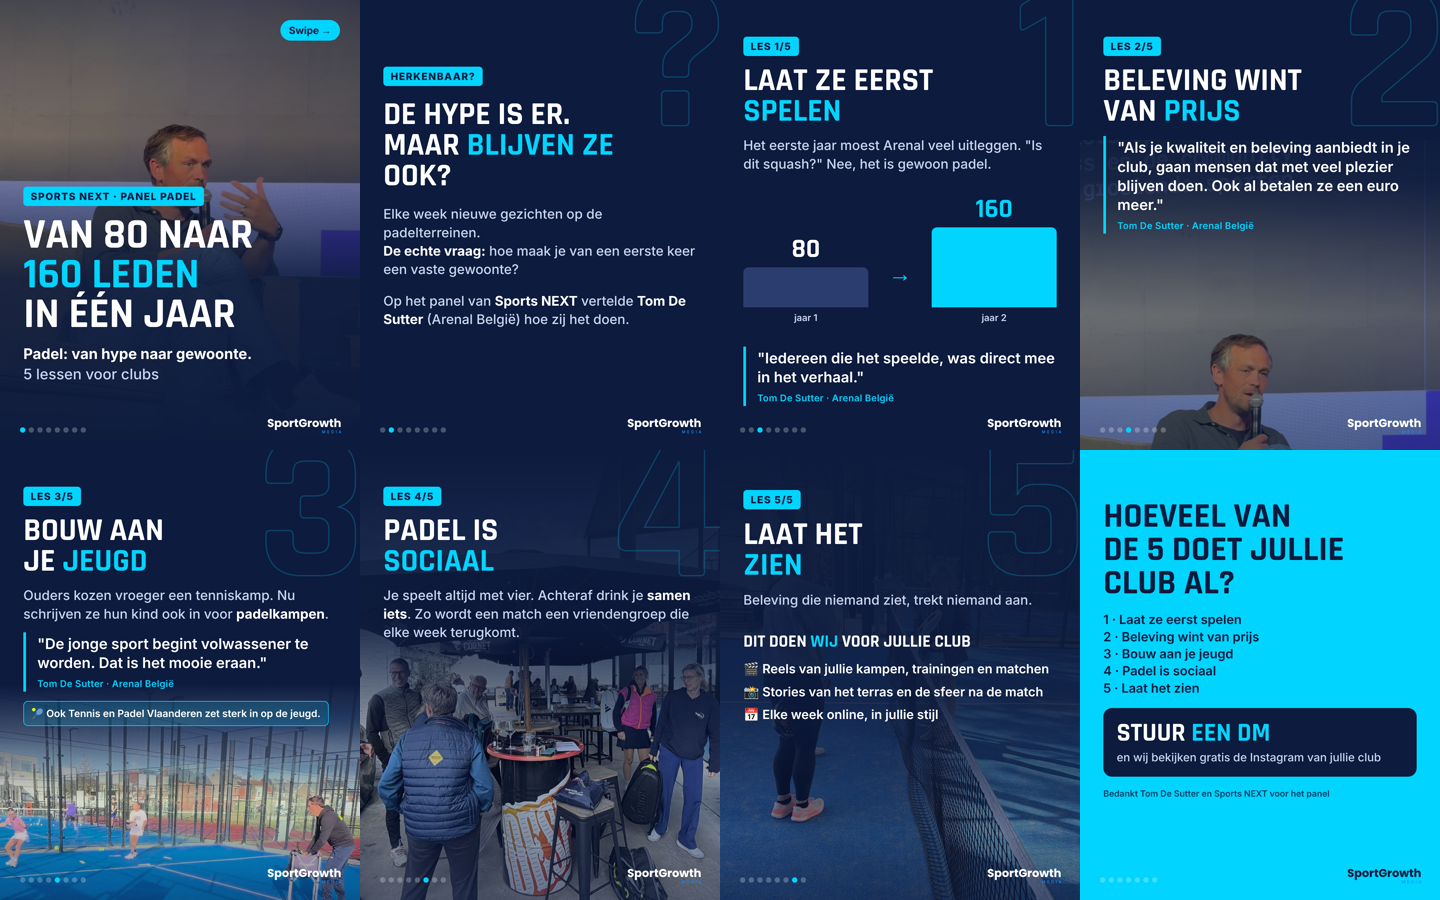
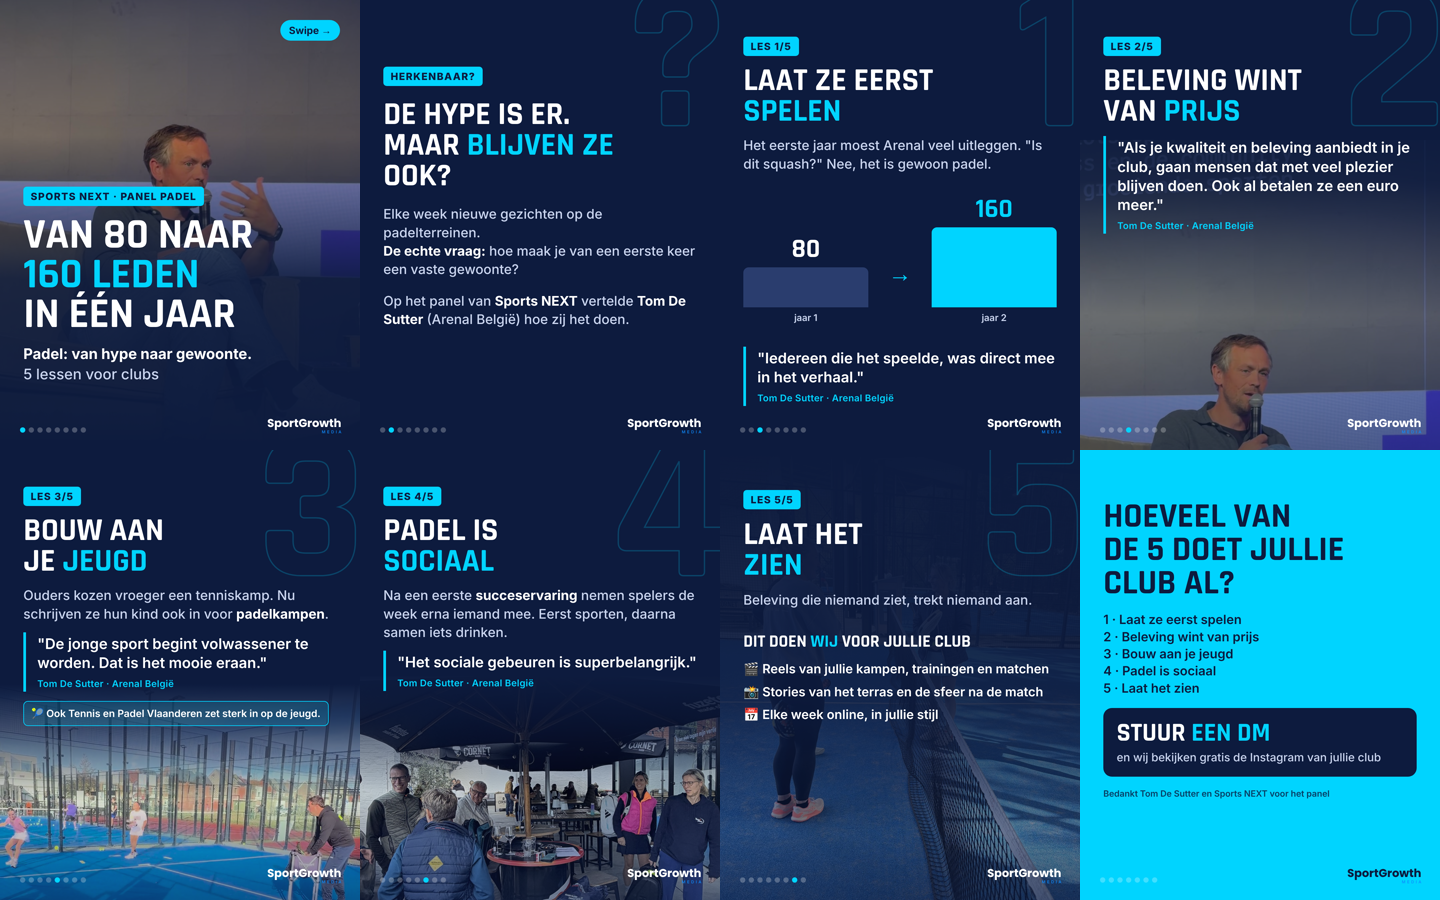
Carrousel hype: citaat Tom bij sociaal
Claude-Session: https://claude.ai/code/session_01QkSWZzWLTduRQtPp2zathG

Changed region(s): [[0.25, 0.6533, 0.5, 1.0]]

diff --git a/instagram/carrousel-hype-gewoonte/build.js b/instagram/carrousel-hype-gewoonte/build.js
@@ -100,13 +100,14 @@ S.push(page(5, `
 
 // 6 LES 4
 S.push(page(6, `
-<div class="bg" style="background-image:${i64(B + '/padel-vol-terras.jpg')};background-position:center 45%"></div>
-<div class="dim" style="background:linear-gradient(180deg,#0d1b3e 0%,rgba(13,27,62,.88) 40%,rgba(13,27,62,.25) 68%,rgba(13,27,62,.6) 100%)"></div>
+<div class="bg" style="background-image:${i64(B + '/padel-vol-terras.jpg')};background-size:100% auto;background-repeat:no-repeat;background-position:center 60px"></div>
+<div class="dim" style="background:linear-gradient(180deg,#0d1b3e 0%,#0d1b3e 50%,rgba(13,27,62,.7) 60%,rgba(13,27,62,.15) 76%,rgba(13,27,62,.55) 100%)"></div>
 <div class="num">4</div>
 <div class="col" style="top:110px">
 <span class="tag">LES 4/5</span>
 <h2>Padel is<br><span class="c">sociaal</span></h2>
-<p class="t">Je speelt altijd met vier. Achteraf drink je <b>samen iets</b>. Zo wordt een match een vriendengroep die elke week terugkomt.</p>
+<p class="t">Na een eerste <b>succeservaring</b> nemen spelers de week erna iemand mee. Eerst sporten, daarna samen iets drinken.</p>
+<div class="q">"Het sociale gebeuren is superbelangrijk."<small>Tom De Sutter · Arenal België</small></div>
 </div>`));
 
 // 7 LES 5 + DIT DOEN WIJ

diff --git a/klanten/flaxx/interviews.md b/klanten/flaxx/interviews.md
@@ -124,3 +124,8 @@ Padel is toegankelijk: veel mensen zonder sportieve achtergrond springen erop en
 - Niet in carrousel 2/11 (vol, eigen thema).
 - Idee latere post: "Nieuwe padelspelers raken snel geblesseerd. Zo help je ze als club" (opwarming, intro-les, juist materiaal). Brug naar Flaxx (armblessures, trillingsdemping) zonder medische claims.
 - Opening voor gesprek met Arenal (analyse vanaf 9/11).
+
+### P6 · Tom De Sutter over het sociale (notitie Jari)
+Door de toegankelijkheid hebben mensen snel een succeservaring en krijgen zin om meer te spelen. Je moet altijd met vier zijn: de week erna pakken ze iemand mee. Niet altijd makkelijk om vier mensen te vinden, maar je hebt telkens een leuke avond: eerst sporten, dan samen iets drinken.
+Tom (letterlijk): "Het sociale gebeuren is superbelangrijk daarin."
+→ carrousel ma 2/11, slide 6.
